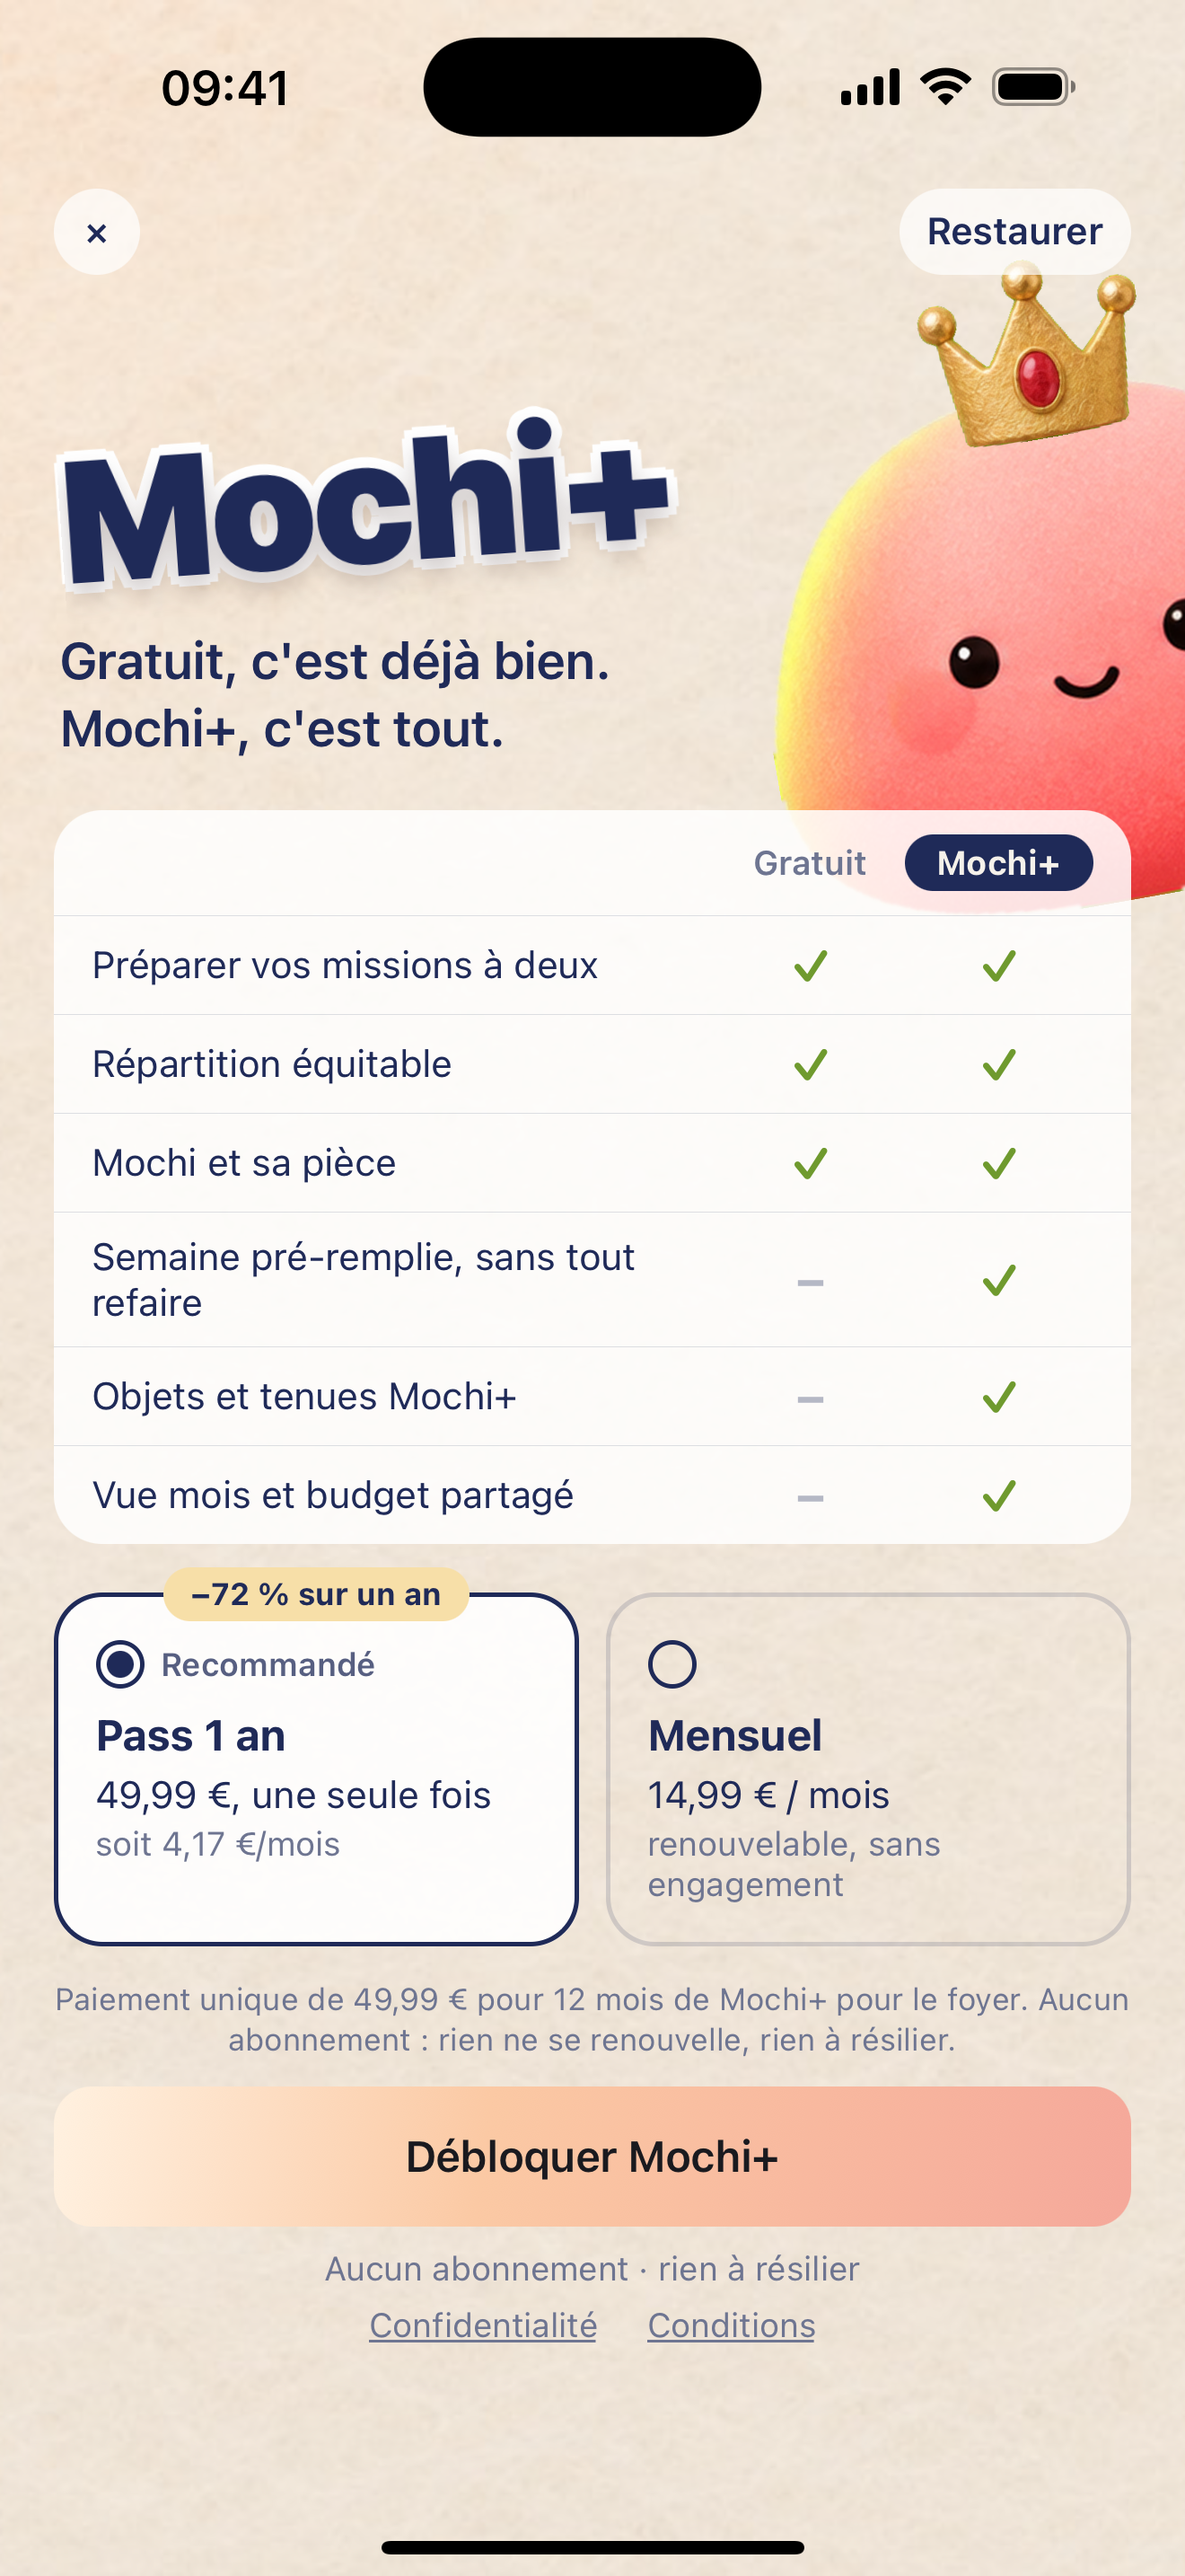
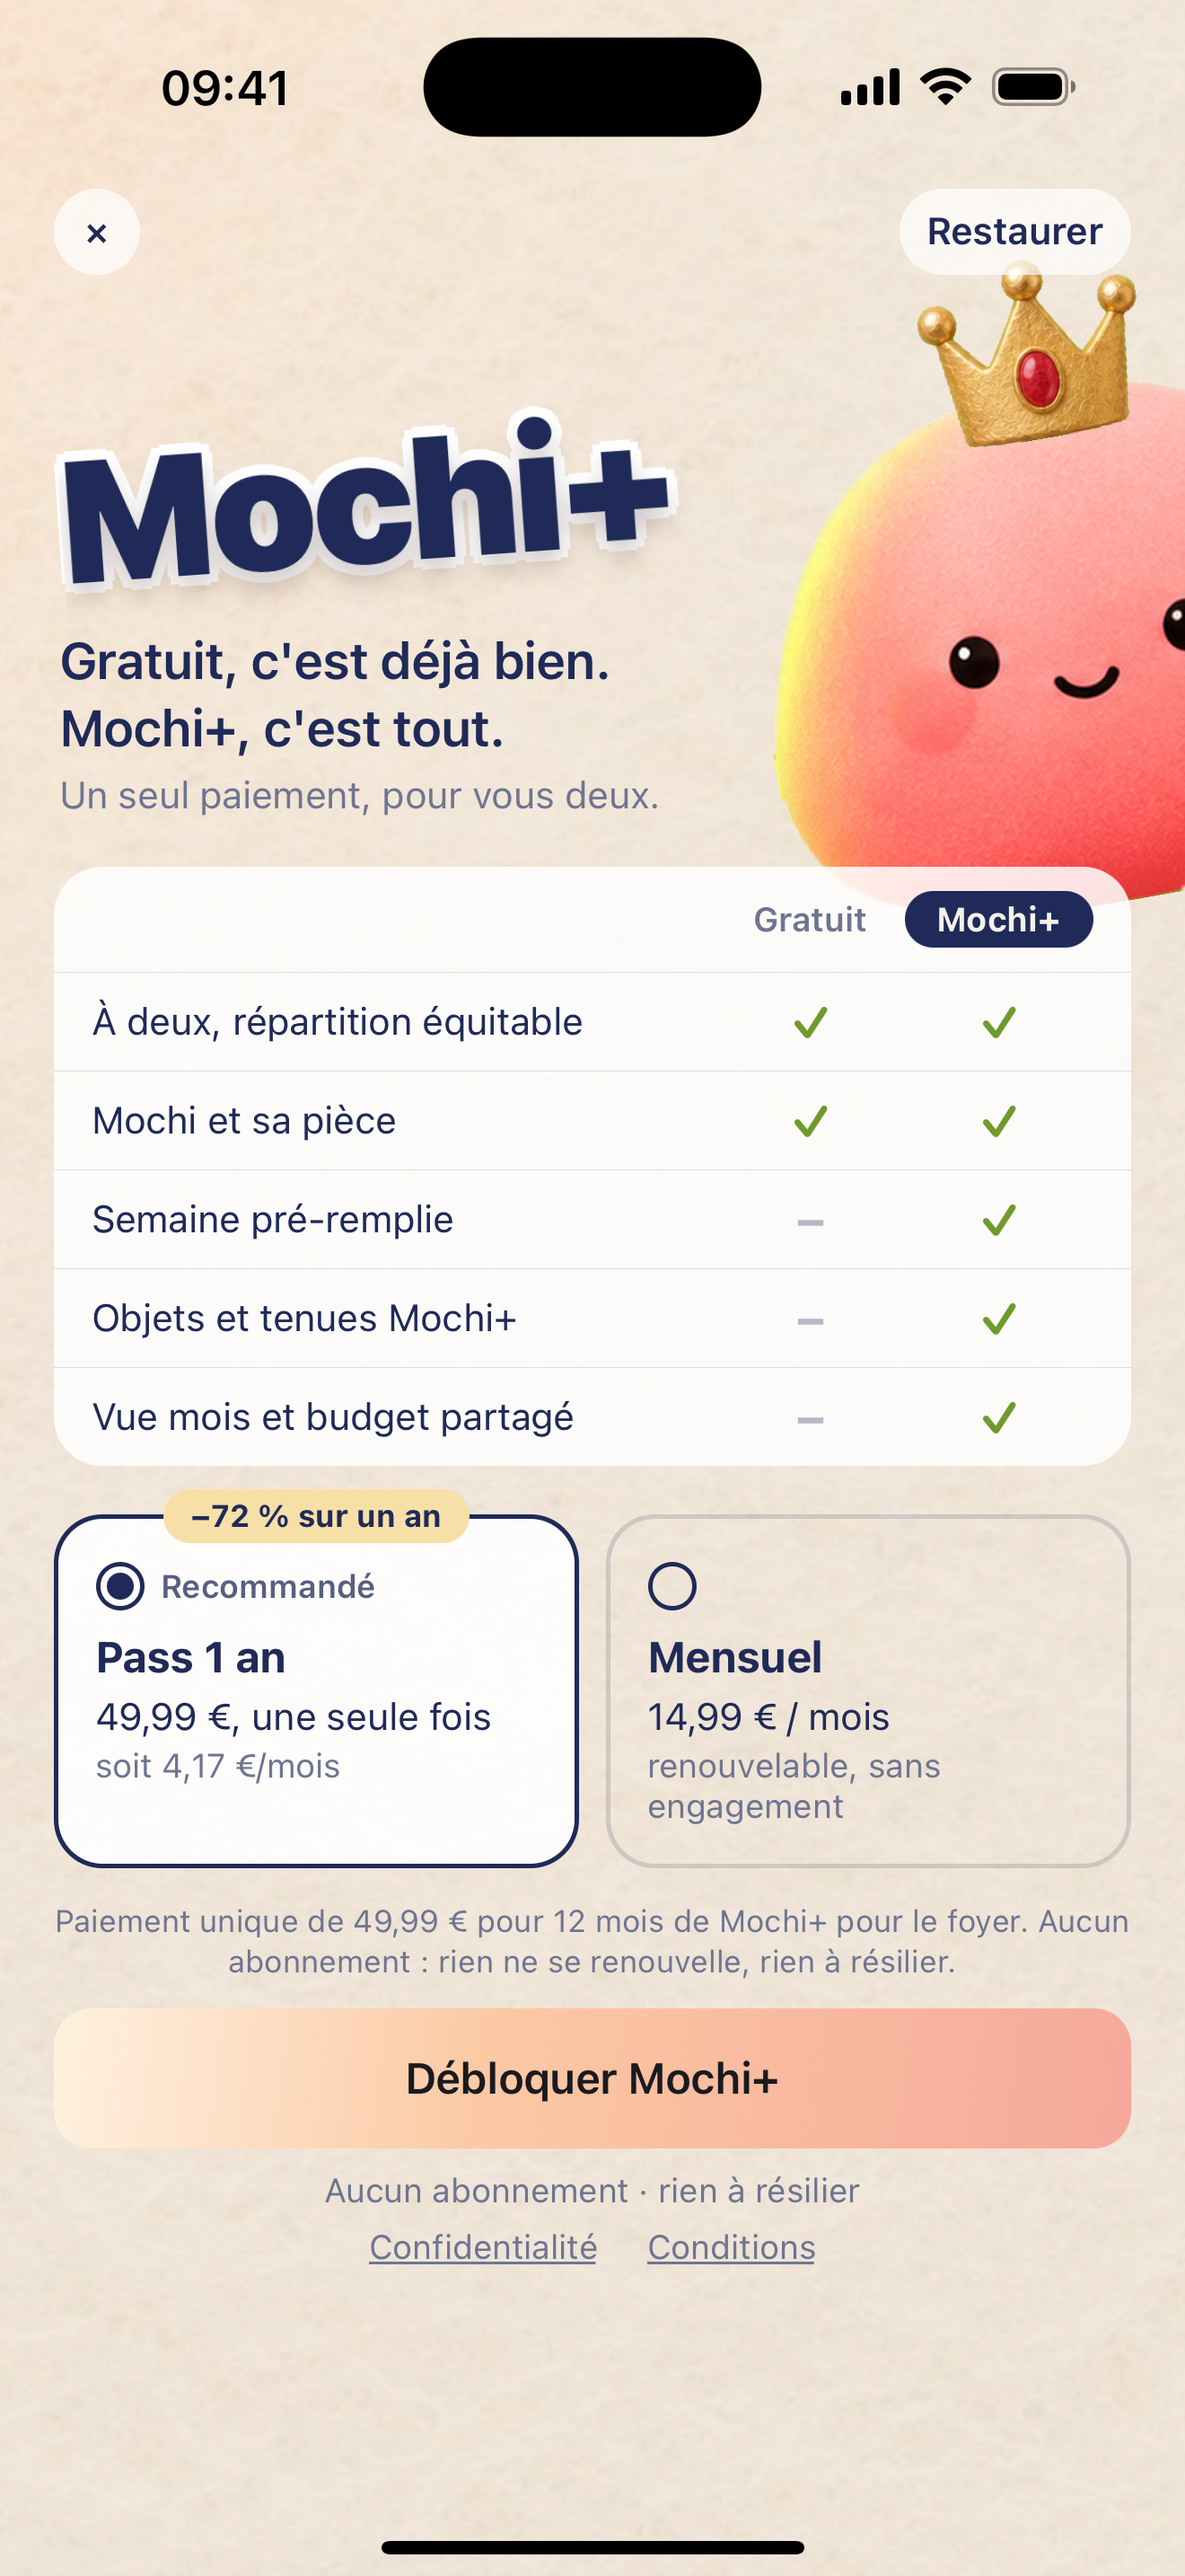
Paywall : contenu Mochi+ mis à jour (semaine pré-remplie, objets et tenues, vue mois, budget ; un seul paiement pour deux)

Changed region(s): [[0.0311, 0.3103, 0.9629, 0.931]]

diff --git a/src/components/premium/paywall-layouts.js b/src/components/premium/paywall-layouts.js
@@ -81,6 +81,7 @@ export function LayoutA({ d }) {
         <View style={{ backgroundColor: 'rgba(255,255,255,0.92)', borderRadius: 30, paddingHorizontal: 18, paddingBottom: 14, paddingTop: 70 }}>
           <View style={{ position: 'absolute', top: -100, alignSelf: 'center' }}><CrownedMochi w={150} /></View>
           <Text style={{ fontSize: 26, lineHeight: 30, fontWeight: '700', letterSpacing: -0.7, color: INK, textAlign: 'center' }}>{t.headline}</Text>
+          <Text style={{ fontSize: 14, color: '#6E7591', textAlign: 'center', marginTop: 4 }}>{t.subheadline}</Text>
           <View style={{ marginTop: 14 }}>
             <View style={{ position: 'absolute', left: 17, top: 20, bottom: 20, width: 2, backgroundColor: 'rgba(31,42,88,0.12)' }} />
             {t.benefits.map(b => (
@@ -161,6 +162,7 @@ export function LayoutC({ d }) {
       <View style={{ marginTop: d.insets.top + 80, paddingHorizontal: 22 }}>
         <StickerText size={64}>Mochi+</StickerText>
         <Text style={{ fontSize: 19, lineHeight: 25, fontWeight: '600', color: INK, marginTop: 14, maxWidth: W * 0.62 }}>{t.headlineC}</Text>
+        <Text style={{ fontSize: 14, color: '#6E7591', marginTop: 4 }}>{t.subheadline}</Text>
       </View>
       <View style={{ marginHorizontal: 20, marginTop: 18, borderRadius: 18, backgroundColor: 'rgba(255,255,255,0.85)', overflow: 'hidden' }}>
         <View style={{ flexDirection: 'row', alignItems: 'center', paddingVertical: 9, paddingHorizontal: 14 }}>
